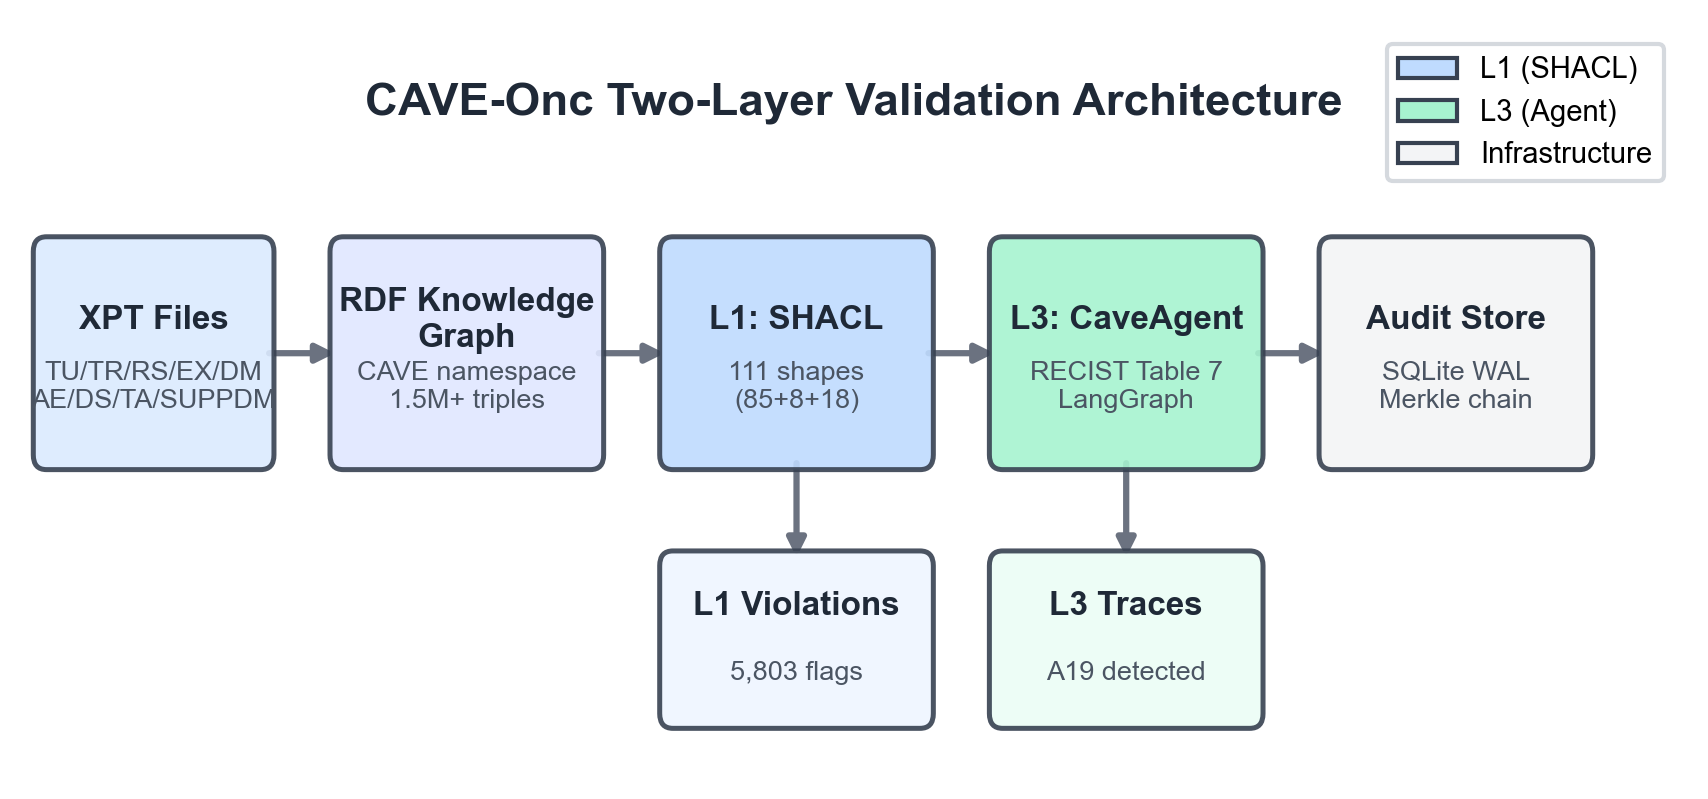
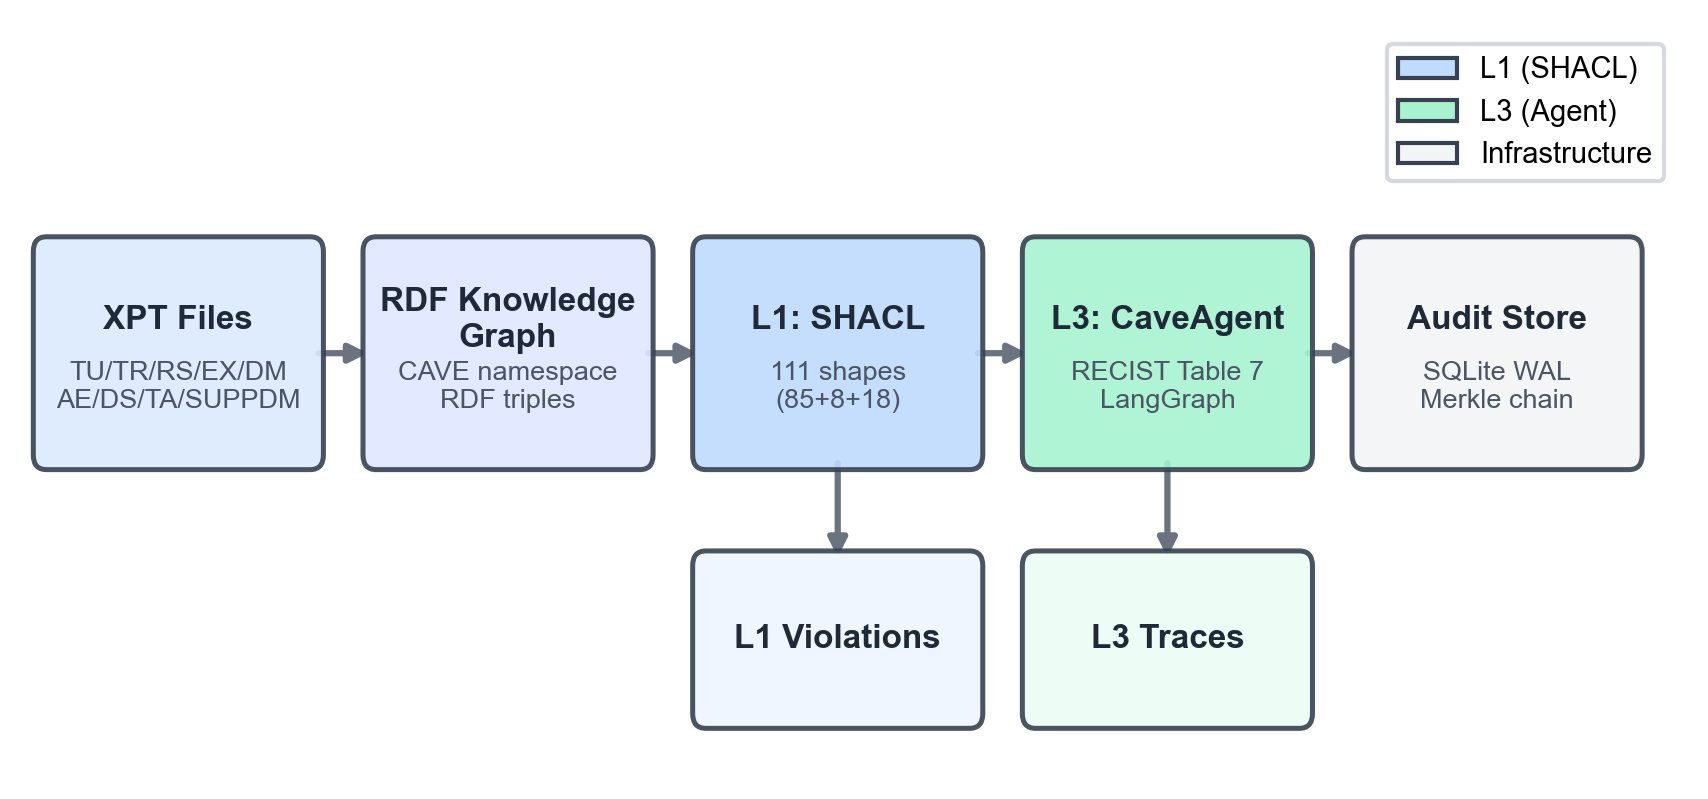
Update figures: correct heatmap baselines, de-mix Fig1/Fig3, add scaling+realdata
- detection_heatmap.csv: fixed CORE column (was stale 0/20 -> 8/20) and added
  the Pinnacle 21 FDA baseline column (6/20); now matches the manuscript Table.
- render_figures.py: 4-column heatmap; relabeled Fig3 clean-data L1 baseline
  (not CORE); de-mixed Fig1 output boxes; removed in-image titles; added the
  supplementary scaling (Fig S1) and real-data transfer (Fig S2) figures and a
  PNG->TIFF + PDF vector export path.

diff --git a/scripts/render_figures.py b/scripts/render_figures.py
@@ -64,6 +64,12 @@ def _setup_font():
     })
 
 
+def _save_fig(fig, png_path):
+    """Save a figure as PNG (submission raster) and a PDF vector sibling."""
+    fig.savefig(png_path, dpi=DPI, facecolor=C_WHITE)
+    fig.savefig(Path(png_path).with_suffix(".pdf"), facecolor=C_WHITE)
+
+
 # ── Figure 1: Architecture Diagram ──────────────────────────────────────────
 
 def render_figure1(outpath: Path):
@@ -104,55 +110,39 @@ def render_figure1(outpath: Path):
             zorder=1
         )
 
-    # Row positions
+    # Row positions — five evenly spaced stages (width 1.6, gap 0.4)
     main_y = 1.7
     box_h = 1.1
+    bw = 1.6
+    xs = [0.1, 2.1, 4.1, 6.1, 8.1]  # left edges; right edges 1.7/3.7/5.7/7.7/9.7
 
-    # Input
-    _box(0.1, main_y, 1.3, box_h, "#DBEAFE", "XPT Files",
+    _box(xs[0], main_y, bw, box_h, "#DBEAFE", "XPT Files",
          "TU/TR/RS/EX/DM\nAE/DS/TA/SUPPDM")
-
-    # RDF KG
-    _box(1.9, main_y, 1.5, box_h, "#E0E7FF", "RDF Knowledge\nGraph",
-         "CAVE namespace\n1.5M+ triples")
-
-    # L1
-    _box(3.9, main_y, 1.5, box_h, "#BFDBFE", "L1: SHACL",
+    _box(xs[1], main_y, bw, box_h, "#E0E7FF", "RDF Knowledge\nGraph",
+         "CAVE namespace\nRDF triples")
+    _box(xs[2], main_y, bw, box_h, "#BFDBFE", "L1: SHACL",
          "111 shapes\n(85+8+18)")
-
-    # L3
-    _box(5.9, main_y, 1.5, box_h, "#A7F3D0", "L3: CaveAgent",
+    _box(xs[3], main_y, bw, box_h, "#A7F3D0", "L3: CaveAgent",
          "RECIST Table 7\nLangGraph")
-
-    # Audit
-    _box(7.9, main_y, 1.5, box_h, "#F3F4F6", "Audit Store",
+    _box(xs[4], main_y, bw, box_h, "#F3F4F6", "Audit Store",
          "SQLite WAL\nMerkle chain")
 
-    # Arrows between main boxes
-    _arrow(1.4, main_y + box_h / 2, 1.9, main_y + box_h / 2)
-    _arrow(3.4, main_y + box_h / 2, 3.9, main_y + box_h / 2)
-    _arrow(5.4, main_y + box_h / 2, 5.9, main_y + box_h / 2)
-    _arrow(7.4, main_y + box_h / 2, 7.9, main_y + box_h / 2)
+    # Arrows between main boxes (right edge -> next left edge)
+    for xr, xl in zip([x + bw for x in xs[:4]], xs[1:]):
+        _arrow(xr, main_y + box_h / 2, xl, main_y + box_h / 2)
 
-    # Output boxes below
+    # Output boxes below L1 and L3 (generic; no track-specific metrics inside
+    # a schematic architecture diagram)
     out_y = 0.3
     out_h = 0.8
-
-    _box(3.9, out_y, 1.5, out_h, "#EFF6FF", "L1 Violations",
-         "5,803 flags")
-    _box(5.9, out_y, 1.5, out_h, "#ECFDF5", "L3 Traces",
-         "A19 detected")
+    _box(xs[2], out_y, bw, out_h, "#EFF6FF", "L1 Violations")
+    _box(xs[3], out_y, bw, out_h, "#ECFDF5", "L3 Traces")
 
     # Downward arrows
-    _arrow(4.65, main_y, 4.65, out_y + out_h)
-    _arrow(6.65, main_y, 6.65, out_y + out_h)
+    _arrow(xs[2] + bw / 2, main_y, xs[2] + bw / 2, out_y + out_h)
+    _arrow(xs[3] + bw / 2, main_y, xs[3] + bw / 2, out_y + out_h)
 
-    # Title bar
-    ax.text(5.0, 3.6, "CAVE-Onc Two-Layer Validation Architecture",
-            ha="center", va="center", fontsize=11, fontweight="bold",
-            color=C_TEXT)
-
-    # Legend
+    # Legend (no in-image title — PLOS requires titles only in the caption)
     legend_items = [
         mpatches.Patch(facecolor="#BFDBFE", edgecolor="#374151", label="L1 (SHACL)"),
         mpatches.Patch(facecolor="#A7F3D0", edgecolor="#374151", label="L3 (Agent)"),
@@ -161,7 +151,7 @@ def render_figure1(outpath: Path):
     ax.legend(handles=legend_items, loc="upper right", framealpha=0.9,
               fontsize=7, edgecolor="#D1D5DB")
 
-    fig.savefig(outpath, dpi=DPI, facecolor=C_WHITE)
+    _save_fig(fig, outpath)
     plt.close(fig)
     print(f"  Figure 1 saved: {outpath} ({outpath.stat().st_size:,} bytes)")
 
@@ -179,14 +169,16 @@ def render_figure2(outpath: Path, csv_path: Path):
 
     n = len(rows)
     labels_y = [f"{r['archetype_id']}: {r['name']}" for r in rows]
-    labels_x = ["CORE (B2)", "L1-only (B3)", "CAVE L1+L3"]
+    labels_x = ["Pinnacle 21\nFDA (B1)", "CORE (B2)", "L1-only (B3)", "CAVE\nL1+L3"]
+    ncol = len(labels_x)
 
-    # Build matrix (0 = not detected, 1 = detected)
-    matrix = np.zeros((n, 3))
+    # Build matrix (0 = not detected, 1 = detected); columns match Table 3
+    matrix = np.zeros((n, ncol))
     for i, r in enumerate(rows):
-        matrix[i, 0] = int(r["CORE_detected"])
-        matrix[i, 1] = int(r["L1_only_detected"])
-        matrix[i, 2] = int(r["CAVE_L1L3_detected"])
+        matrix[i, 0] = int(r["P21_FDA_detected"])
+        matrix[i, 1] = int(r["CORE_detected"])
+        matrix[i, 2] = int(r["L1_only_detected"])
+        matrix[i, 3] = int(r["CAVE_L1L3_detected"])
 
     fig, ax = plt.subplots(1, 1, figsize=(COL_WIDTH, 6.5))
     fig.patch.set_facecolor(C_WHITE)
@@ -200,12 +192,12 @@ def render_figure2(outpath: Path, csv_path: Path):
     # Gridlines
     for i in range(n + 1):
         ax.axhline(i - 0.5, color=C_WHITE, linewidth=1.5)
-    for j in range(4):
+    for j in range(ncol + 1):
         ax.axvline(j - 0.5, color=C_WHITE, linewidth=1.5)
 
     # Axis labels
-    ax.set_xticks(range(3))
-    ax.set_xticklabels(labels_x, fontsize=9, fontweight="bold")
+    ax.set_xticks(range(ncol))
+    ax.set_xticklabels(labels_x, fontsize=8, fontweight="bold")
     ax.xaxis.set_ticks_position("top")
     ax.xaxis.set_label_position("top")
 
@@ -214,7 +206,7 @@ def render_figure2(outpath: Path, csv_path: Path):
 
     # Cell annotations
     for i in range(n):
-        for j in range(3):
+        for j in range(ncol):
             val = int(matrix[i, j])
             txt = "Y" if val == 1 else "-"
             color = C_WHITE if val == 1 else C_GREY_MID
@@ -223,25 +215,24 @@ def render_figure2(outpath: Path, csv_path: Path):
 
     # Highlight A19 row
     a19_idx = next(i for i, r in enumerate(rows) if r["archetype_id"] == "A19")
-    ax.add_patch(plt.Rectangle((-0.5, a19_idx - 0.5), 3, 1,
+    ax.add_patch(plt.Rectangle((-0.5, a19_idx - 0.5), ncol, 1,
                                fill=False, edgecolor=C_GREEN, linewidth=2.5,
                                linestyle="--", zorder=5))
-    ax.text(3.15, a19_idx, "← L3 only", fontsize=7, color=C_GREEN_DARK,
+    ax.text(ncol + 0.15, a19_idx, "← L3 only", fontsize=7, color=C_GREEN_DARK,
             va="center", fontweight="bold")
-
-    ax.set_title("Contradiction Archetype Detection Across Configurations",
-                 fontsize=11, fontweight="bold", pad=20, color=C_TEXT)
+    # No in-image title (PLOS requires titles only in the caption)
 
     # Legend
     legend_items = [
         mpatches.Patch(facecolor=C_BLUE, edgecolor="#374151", label="Detected"),
         mpatches.Patch(facecolor=C_GREY, edgecolor="#374151", label="Not detected"),
     ]
-    ax.legend(handles=legend_items, loc="lower right",
+    ax.legend(handles=legend_items, loc="upper center",
+              bbox_to_anchor=(0.5, -0.02), ncol=2,
               fontsize=8, edgecolor="#D1D5DB", framealpha=0.9)
 
     fig.tight_layout()
-    fig.savefig(outpath, dpi=DPI, facecolor=C_WHITE)
+    _save_fig(fig, outpath)
     plt.close(fig)
     print(f"  Figure 2 saved: {outpath} ({outpath.stat().st_size:,} bytes)")
 
@@ -255,7 +246,7 @@ def render_figure3(outpath: Path, json_path: Path):
 
     timing = data["timing"]
     # Source data
-    components = ["CORE baseline", "L1 (SHACL, 111 shapes)", "L3 (Agent)", "Full CAVE (L1+L3)"]
+    components = ["Clean-data L1 baseline", "L1 (SHACL, 111 shapes)", "L3 (Agent)", "Full CAVE (L1+L3)"]
     times = [
         timing.get("clean_baseline_l1_s", 103.664),
         timing["mean_per_archetype_l1_s"],
@@ -302,7 +293,7 @@ def render_figure3(outpath: Path, json_path: Path):
 
     # CAVE/CORE ratio annotation
     ratio = timing["cave_to_baseline_ratio"]
-    ax1.text(times[3] + 1.5, 3.45, f"CAVE/CORE = {ratio:.2f}×",
+    ax1.text(times[3] + 1.5, 3.45, f"CAVE / Clean L1 = {ratio:.2f}×",
              fontsize=7, color=C_PURPLE, fontweight="bold", va="top")
 
     # Panel (b): Zoomed L3
@@ -318,23 +309,146 @@ def render_figure3(outpath: Path, json_path: Path):
     ax2.text(times[2] + 0.002, 0, f"{times[2]*1000:.0f}ms",
              va="center", fontsize=8, color=C_GREEN_DARK, fontweight="bold")
 
-    fig.suptitle("Mean Validation Time per Archetype by Component",
-                 fontsize=11, fontweight="bold", color=C_TEXT, y=1.02)
+    # No in-image suptitle (PLOS requires titles only in the caption)
     fig.tight_layout()
-    fig.savefig(outpath, dpi=DPI, facecolor=C_WHITE)
+    _save_fig(fig, outpath)
     plt.close(fig)
     print(f"  Figure 3 saved: {outpath} ({outpath.stat().st_size:,} bytes)")
+
+
+# ── Supplementary Figure S1: Oxigraph scaling ───────────────────────────────
+
+def render_figure_scaling(outpath: Path, json_path: Path):
+    """Log-log scaling: SPARQL detection (sub-linear) vs end-to-end pipeline."""
+    with open(json_path, "r", encoding="utf-8") as f:
+        data = json.load(f)
+
+    rows = sorted(data["scale_results"], key=lambda r: r["subjects"])
+    subj = np.array([r["subjects"] for r in rows], dtype=float)
+    detect_s = np.array([r["sparql_query_s"] for r in rows], dtype=float)
+    e2e_s = np.array([r["subjects"] / r["end_to_end_throughput_subjects_per_s"]
+                      for r in rows], dtype=float)
+
+    sc = data["scaling"]
+    exp_detect = sc["sparql_query_exponent_loglog"]
+    exp_e2e = sc["end_to_end_exponent_loglog"]
+
+    fig, ax = plt.subplots(1, 1, figsize=(COL_WIDTH * 0.72, 3.4))
+    fig.patch.set_facecolor(C_WHITE)
+
+    # Fitted power-law reference lines (anchored at the first point)
+    xs = np.linspace(subj.min(), subj.max(), 100)
+    ax.plot(xs, detect_s[0] * (xs / subj[0]) ** exp_detect,
+            color=C_BLUE, lw=1.2, ls="--", alpha=0.8, zorder=1)
+    ax.plot(xs, e2e_s[0] * (xs / subj[0]) ** exp_e2e,
+            color=C_ORANGE, lw=1.2, ls="--", alpha=0.8, zorder=1)
+
+    ax.plot(subj, detect_s, "o-", color=C_BLUE, lw=1.8, ms=7, zorder=3,
+            label=f"SPARQL detection (slope {exp_detect:.2f}, sub-linear)")
+    ax.plot(subj, e2e_s, "s-", color=C_ORANGE, lw=1.8, ms=6, zorder=3,
+            label=f"End-to-end pipeline (slope {exp_e2e:.2f})")
+
+    ax.set_xscale("log")
+    ax.set_yscale("log")
+    ax.set_xlabel("Cohort size (subjects)", fontsize=9)
+    ax.set_ylabel("Wall-clock time (s)", fontsize=9)
+    ax.set_xticks(subj)
+    ax.set_xticklabels([f"{int(s):,}" for s in subj])
+    # Suppress default log-scale minor tick labels (2x10^3 etc.) that would
+    # otherwise overlap the custom cohort-size labels.
+    import matplotlib.ticker as mticker
+    ax.xaxis.set_minor_locator(mticker.NullLocator())
+    ax.grid(True, which="both", alpha=0.3, zorder=0)
+    ax.set_facecolor(C_BG)
+    ax.legend(fontsize=7.5, loc="upper left", framealpha=0.9, edgecolor="#D1D5DB")
+
+    fig.tight_layout()
+    _save_fig(fig, outpath)
+    plt.close(fig)
+    print(f"  Figure S1 saved: {outpath} ({outpath.stat().st_size:,} bytes)")
+
+
+# ── Supplementary Figure S2: real-data transfer (Item E) ─────────────────────
+
+def render_figure_realdata(outpath: Path, synta_json: Path, ca012_json: Path):
+    """3-state real-data transfer heatmap: detected / applicable-missed / N/A."""
+    def states(path):
+        s = json.load(open(path, encoding="utf-8"))["summary"]
+        return set(s["detected_ids"]), set(s["missed_ids"])
+
+    sd, sm = states(synta_json)
+    cd, cm = states(ca012_json)
+    aids = [f"A{i:02d}" for i in range(1, 21)]
+
+    def code(a, det, mis):
+        return 2 if a in det else (1 if a in mis else 0)  # 2=detected 1=missed 0=N/A
+
+    matrix = np.array([[code(a, sd, sm), code(a, cd, cm)] for a in aids], dtype=float)
+
+    from matplotlib.colors import ListedColormap
+    cmap = ListedColormap([C_GREY, C_ORANGE, C_BLUE])
+
+    fig, ax = plt.subplots(1, 1, figsize=(3.4, 6.2))
+    fig.patch.set_facecolor(C_WHITE)
+    ax.imshow(matrix, cmap=cmap, aspect="auto", vmin=0, vmax=2)
+
+    for i in range(len(aids) + 1):
+        ax.axhline(i - 0.5, color=C_WHITE, lw=1.5)
+    for j in range(3):
+        ax.axvline(j - 0.5, color=C_WHITE, lw=1.5)
+
+    ax.set_xticks(range(2))
+    ax.set_xticklabels(["Synta\n4783-08", "CA012\n(mBC)"], fontsize=8, fontweight="bold")
+    ax.xaxis.set_ticks_position("top")
+    ax.xaxis.set_label_position("top")
+    ax.set_yticks(range(len(aids)))
+    ax.set_yticklabels(aids, fontsize=7)
+
+    sym = {2: "Y", 1: "x", 0: "-"}
+    txtcol = {2: C_WHITE, 1: C_WHITE, 0: C_GREY_MID}
+    for i in range(len(aids)):
+        for j in range(2):
+            v = int(matrix[i, j])
+            ax.text(j, i, sym[v], ha="center", va="center",
+                    fontsize=8, fontweight="bold", color=txtcol[v])
+
+    legend_items = [
+        mpatches.Patch(facecolor=C_BLUE, edgecolor="#374151", label="Detected"),
+        mpatches.Patch(facecolor=C_ORANGE, edgecolor="#374151", label="Applicable, missed"),
+        mpatches.Patch(facecolor=C_GREY, edgecolor="#374151", label="Not applicable"),
+    ]
+    ax.legend(handles=legend_items, loc="upper center", bbox_to_anchor=(0.5, -0.015),
+              ncol=1, fontsize=7.5, edgecolor="#D1D5DB", framealpha=0.9)
+
+    fig.tight_layout()
+    _save_fig(fig, outpath)
+    plt.close(fig)
+    print(f"  Figure S2 saved: {outpath} ({outpath.stat().st_size:,} bytes)")
+
+
+# ── PNG → publication TIFF (PLOS: RGB, LZW, 300 dpi) ─────────────────────────
+
+def png_to_tiff(png_path: Path, tif_path: Path):
+    """Convert a rendered PNG to a PLOS-compliant TIFF (RGB, LZW, 300 dpi)."""
+    from PIL import Image
+    im = Image.open(png_path).convert("RGB")
+    im.save(tif_path, format="TIFF", compression="tiff_lzw", dpi=(DPI, DPI))
 
 
 # ── Main ─────────────────────────────────────────────────────────────────────
 
 def main():
     parser = argparse.ArgumentParser(description="Render CAVE-Onc manuscript figures.")
-    parser.add_argument("--outdir", default="docs/figures", help="Output directory")
+    parser.add_argument("--outdir", default="docs/figures",
+                        help="PNG working directory (also holds detection_heatmap.csv)")
+    parser.add_argument("--tifdir", default="docs/latex/plos_submission/figures",
+                        help="Where submission TIFFs (Fig1-3) and Fig S1 are written")
     args = parser.parse_args()
 
     outdir = Path(args.outdir)
     outdir.mkdir(parents=True, exist_ok=True)
+    tifdir = Path(args.tifdir)
+    tifdir.mkdir(parents=True, exist_ok=True)
 
     _setup_font()
 
@@ -342,7 +456,20 @@ def main():
     render_figure1(outdir / "figure1_architecture.png")
     render_figure2(outdir / "figure2_heatmap.png", outdir / "detection_heatmap.csv")
     render_figure3(outdir / "figure3_timing.png", Path("eval/p8_benchmark_results.json"))
-    print("Done. All figures saved to", outdir)
+    render_figure_scaling(tifdir / "FigS1_scaling.png", Path("eval/scale_benchmark_large.json"))
+    render_figure_realdata(tifdir / "FigS2_realdata.png",
+                           Path("eval/real_data_e2_synta.json"),
+                           Path("eval/real_data_e2_ca012.json"))
+
+    print("Converting main figures to publication TIFFs (+ vector PDF)...")
+    import shutil
+    for stem, name in [("figure1_architecture", "Fig1"),
+                       ("figure2_heatmap", "Fig2"),
+                       ("figure3_timing", "Fig3")]:
+        png_to_tiff(outdir / f"{stem}.png", tifdir / f"{name}.tif")
+        shutil.copy(outdir / f"{stem}.pdf", tifdir / f"{name}.pdf")  # vector sibling
+        print(f"  {name}.tif + {name}.pdf")
+    print("Done.")
 
 
 if __name__ == "__main__":